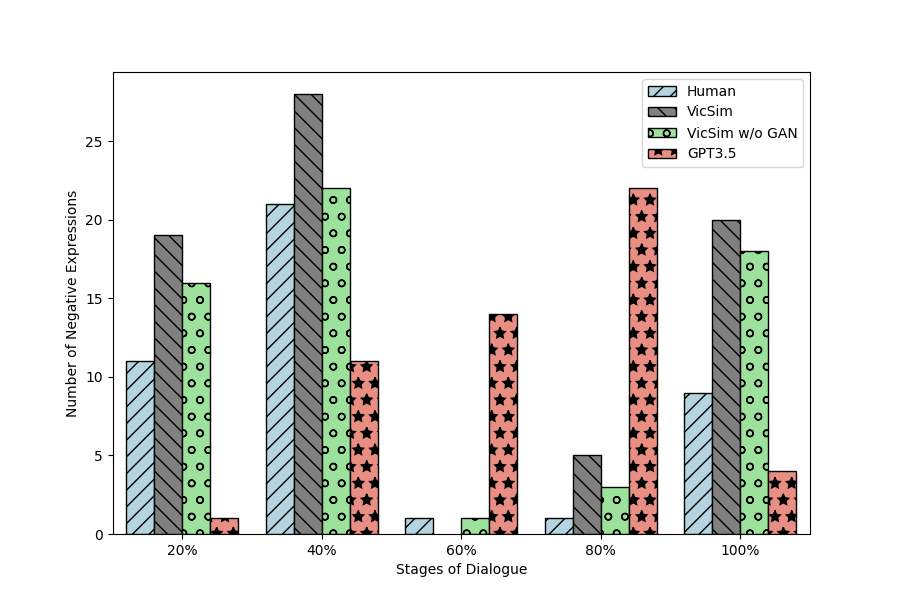
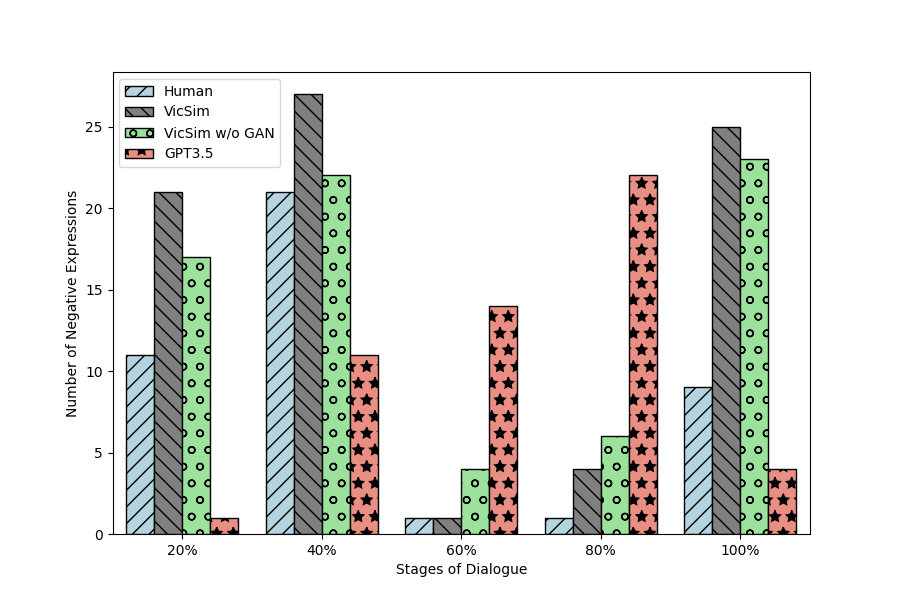
Upload

diff --git a/plot_user_neg.py b/plot_user_neg.py
@@ -55,11 +55,7 @@ df = pd.DataFrame({
     'total': [1] * len(zero_ratio) + [1] * len(r_ratio_usergan) + [1] * len(r_ratio) + [1] * len(r_ratio_gpt35)
 })
 # print(df)
-def adjust_ratio(x):
-    x += 0.5
-    if x > 1:
-        x -= 1
-    return x
+
 def map_to_ratio_group(ratio):
     if ratio <= 0.2:
         return 0
@@ -71,7 +67,7 @@ def map_to_ratio_group(ratio):
         return 3
     else:
         return 4
-df['Ratio'] = df.apply(lambda row: adjust_ratio(row['Ratio']) if row['Model'] != 'GPT3.5' else row['Ratio'], axis=1)
+# df['Ratio'] = df.apply(lambda row: adjust_ratio(row['Ratio']) if row['Model'] != 'GPT3.5' else row['Ratio'], axis=1)
 # Create DataFrame with mapped ratio groups and renamed column
 
 # Map 'Ratio' to 'Ratio_Group' and rename column
